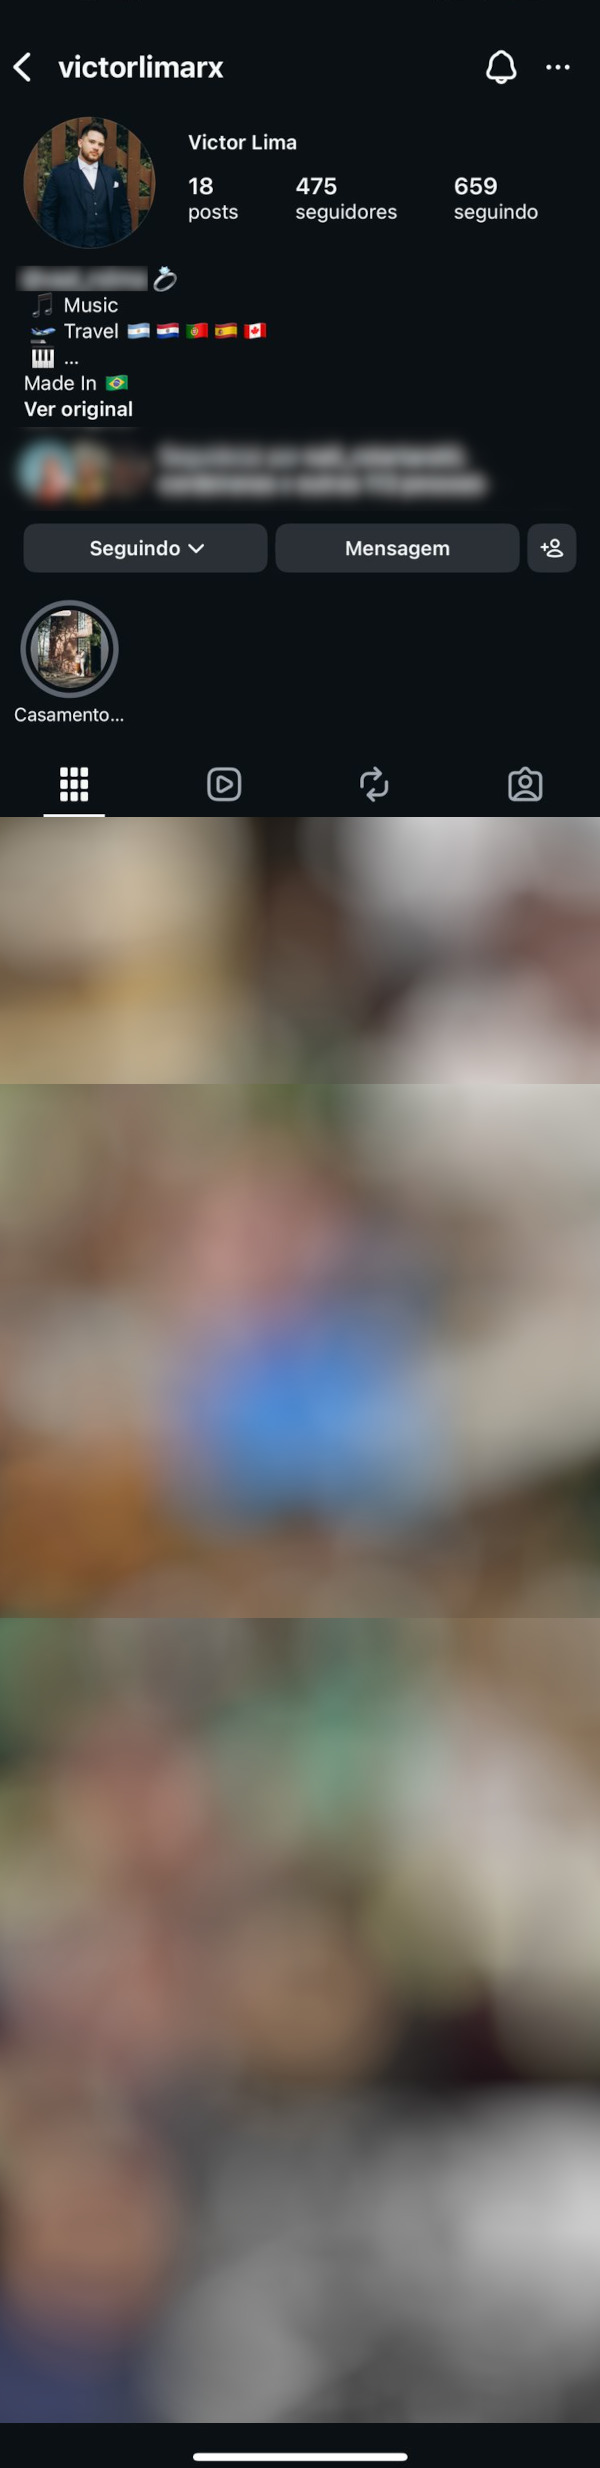
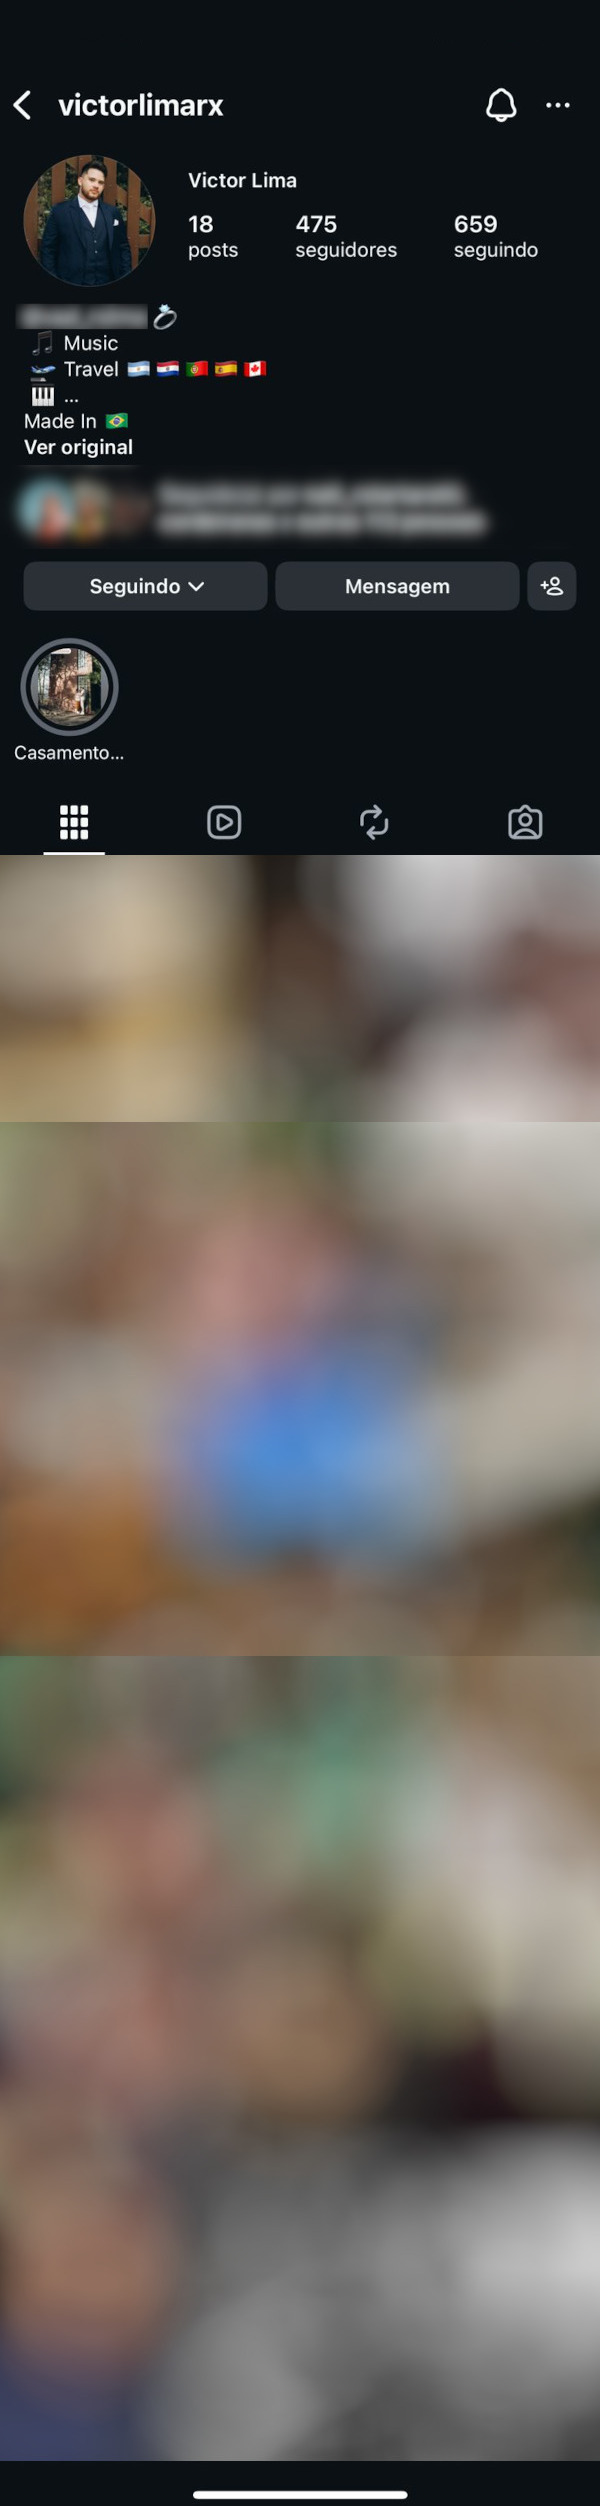
atualização projeto social

diff --git a/index.html b/index.html
@@ -10,15 +10,16 @@
 <body>
     <main>
         <section id="telefone">
+            <div id="topo-iphone"></div>
             <iframe src="home.html" name="tela" id="tela" frameborder="0"></iframe>
         </section>
         <section id="redes-sociais">
             <a href="home.html" target="tela"><img src="imagens/logo-home.jpg" alt=""></a><br>
             <a href="youtube.html" target="tela"><img src="imagens/logo-youtube.jpg" alt=""></a><br>
-            <a href="#" target=""><img src="imagens/logo-github.jpg" alt=""></a><br>
-            <a href="#" target=""><img src="imagens/logo-instagram.jpg" alt=""></a><br>
-            <a href="#" target=""><img src="imagens/logo-twitter.jpg" alt=""></a><br>
-            <a href="#" target=""><img src="imagens/logo-facebook.jpg" alt=""></a>
+            <a href="github.html" target="tela"><img src="imagens/logo-github.jpg" alt=""></a><br>
+            <a href="instagram.html" target="tela"><img src="imagens/logo-instagram.jpg" alt=""></a><br>
+            <a href="twitter.html" target="tela"><img src="imagens/logo-twitter.jpg" alt=""></a><br>
+            <a href="facebook.html" target="tela"><img src="imagens/logo-facebook.jpg" alt=""></a>
         </section>
     </main>
 </body>

diff --git a/estilos/social.css b/estilos/social.css
@@ -4,6 +4,7 @@
     margin: 0px;
     padding: 0px;
     font-family: Arial, Helvetica, sans-serif;
+    padding-bottom: -100px;
 }
 
 ::-webkit-scrollbar {
@@ -11,16 +12,42 @@
     height: 0px;
 }
 
+body, html {
+    padding-bottom: -100px;
+}
+
 img {
     width: 100vw;
+    margin: -4px 0px;
 }
 
 a {
     display: block;
-    background-color: darkblue;
     color: white;
-    padding: 20px;
+    padding: 15px;
     text-align: center;
     font-weight: bolder;
     text-decoration: none;
+
+}
+
+a#yt {
+    background-color: #161616;
+}
+a#yt:hover {
+    background-color: #383838;
+}
+
+a#gh {
+    background-color: #0D1017;
+}
+a#gh:hover {
+    background-color: #222a3b;
+}
+
+a#insta {
+    background-color: #0D1017;
+}
+a#insta:hover {
+    background-color: #222a3b;
 }

diff --git a/estilos/style.css b/estilos/style.css
@@ -28,9 +28,21 @@ section#telefone {
     top: 50%;
     left: 50%;
     transform: translate(-50%, -50%);
-    height: 627px;
-    width: 311px;
+    height: 556px;
+    width: 277px;
     background: url(../imagens/iphone17promax.png) no-repeat;
+}
+
+div#topo-iphone {
+    background: url(../imagens/topo-iphone.png) no-repeat;
+    left: 50%;
+    top: 4%;
+    transform: translate(-50%, -50%);
+    width: 280px;
+    height: 50px;
+    position: absolute;
+    z-index: 9999;
+
 }
 
 section#redes-sociais {
@@ -58,4 +70,5 @@ iframe#tela {
     left: 16px;
     width: 246px;
     height: 534px;
+    border-radius: 30px;
 }

diff --git a/instagram.html b/instagram.html
@@ -7,7 +7,7 @@
     <title>Youtube</title>
 </head>
 <body>
-    <img src="imagens/tela-youtube-victor.jpg" alt="YouTube">
-    <a id="yt" href="https://www.youtube.com/@ToySolider13">ACESSE</a>
+    <img src="imagens/tela-instagram-victor.jpg" alt="Instagram">
+    <a id="insta" href="https://www.instagram.com/victorlimarx" target="_blank">ACESSE</a>
 </body>
 </html>

diff --git a/facebook.html b/facebook.html
@@ -7,7 +7,6 @@
     <title>Youtube</title>
 </head>
 <body>
-    <img src="imagens/tela-youtube-victor.jpg" alt="YouTube">
-    <a id="yt" href="https://www.youtube.com/@ToySolider13">ACESSE</a>
+    <img class="yt" src="imagens/tela-github-victor.jpg" alt="YouTube"><a href="https://www.youtube.com/@ToySolider13">ACESSE</a>
 </body>
 </html>

diff --git a/twitter.html b/twitter.html
@@ -7,7 +7,6 @@
     <title>Youtube</title>
 </head>
 <body>
-    <img src="imagens/tela-youtube-victor.jpg" alt="YouTube">
-    <a id="yt" href="https://www.youtube.com/@ToySolider13">ACESSE</a>
+    <img class="yt" src="imagens/tela-github-victor.jpg" alt="YouTube"><a href="https://www.youtube.com/@ToySolider13">ACESSE</a>
 </body>
 </html>

diff --git a/github.html b/github.html
@@ -7,7 +7,7 @@
     <title>Youtube</title>
 </head>
 <body>
-    <img src="imagens/tela-youtube-victor.jpg" alt="YouTube">
-    <a id="yt" href="https://www.youtube.com/@ToySolider13">ACESSE</a>
+    <img src="imagens/tela-github-victor.jpg" alt="GitHub">
+    <a id="gh" href="https://github.com/VictorLimarx">ACESSE</a>
 </body>
 </html>
